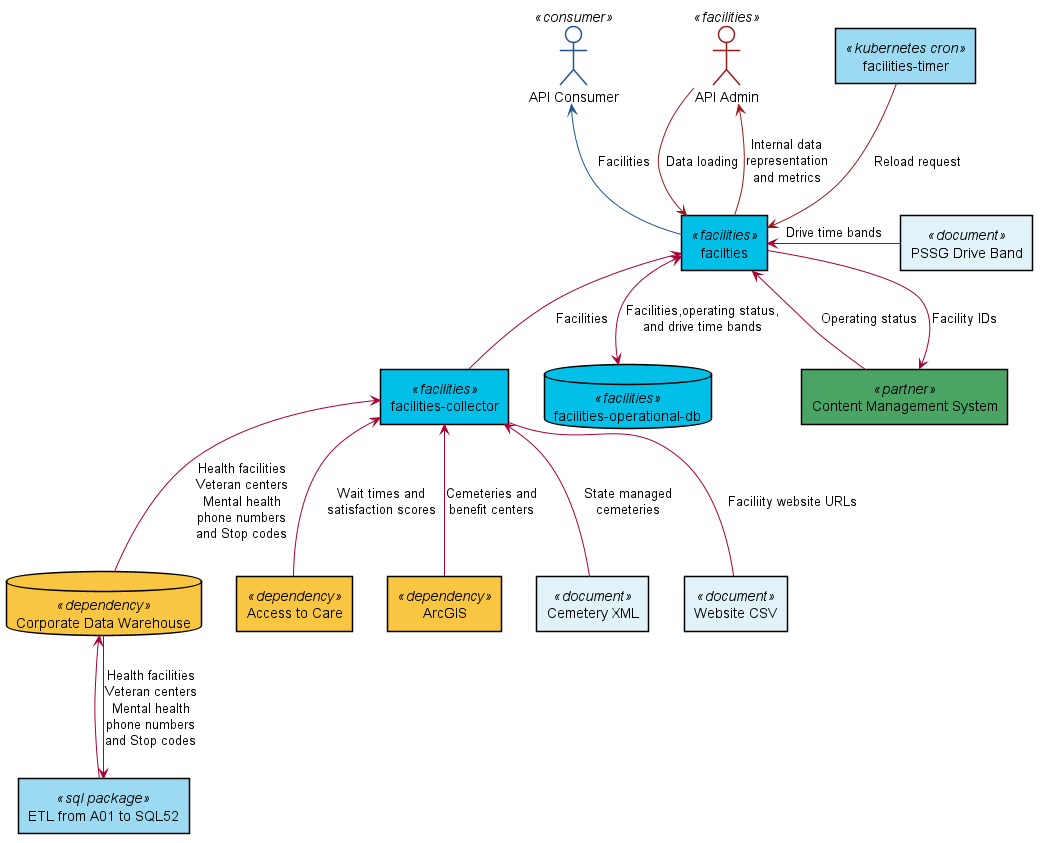
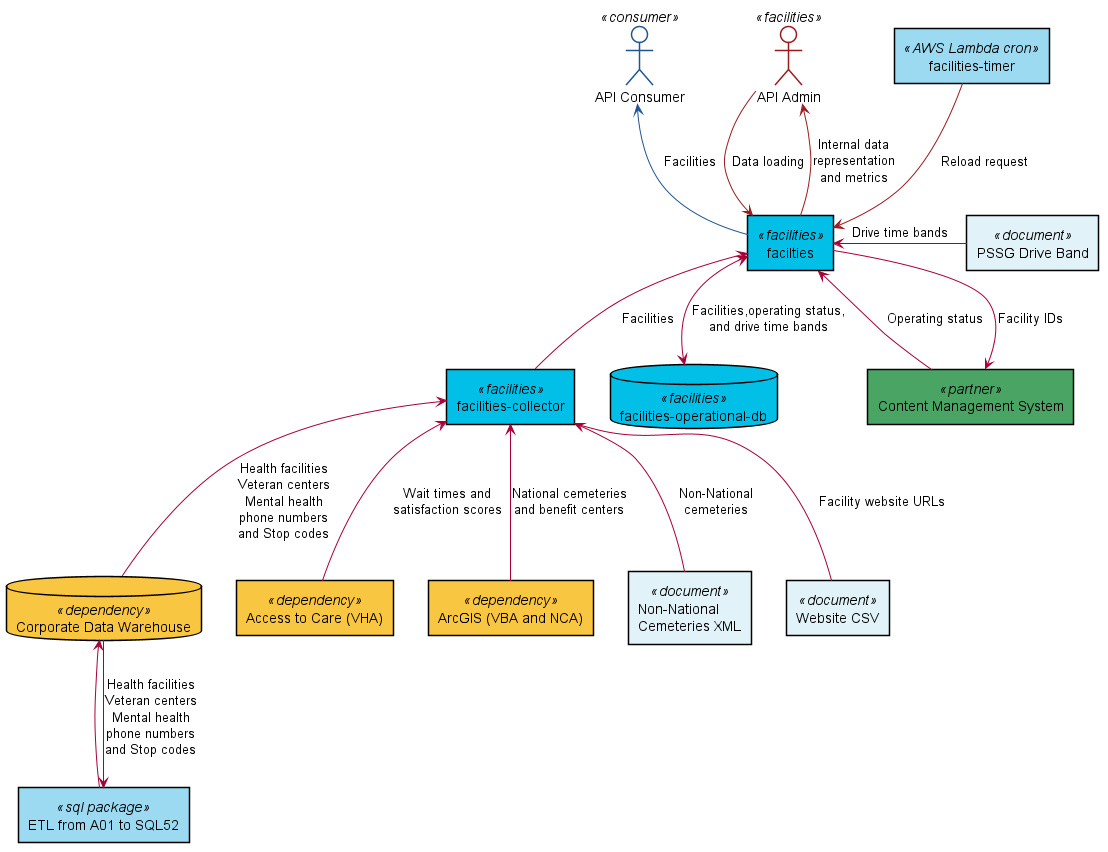
API-1641 Diagram updates (#121)

diff --git a/README.md b/README.md
@@ -30,7 +30,7 @@ OpenAPI documentation on the
   through the facilities collection process.
   Operating status may be updated at any time by CMS.
   Drive time band data is currently refreshed on an as-needed basis.
-* `facilities-timer` is a Kubernetes Cron pod that fires nightly to trigger the facilities
+* `facilities-timer` is a AWS Lambda Cron pod that fires nightly to trigger the facilities
   collection/data reload process.
 * `Access to Care` and `ArcGIS` are services used to provide different aspects
   of facilities. This data is aggregated by the `facility-collector`.
